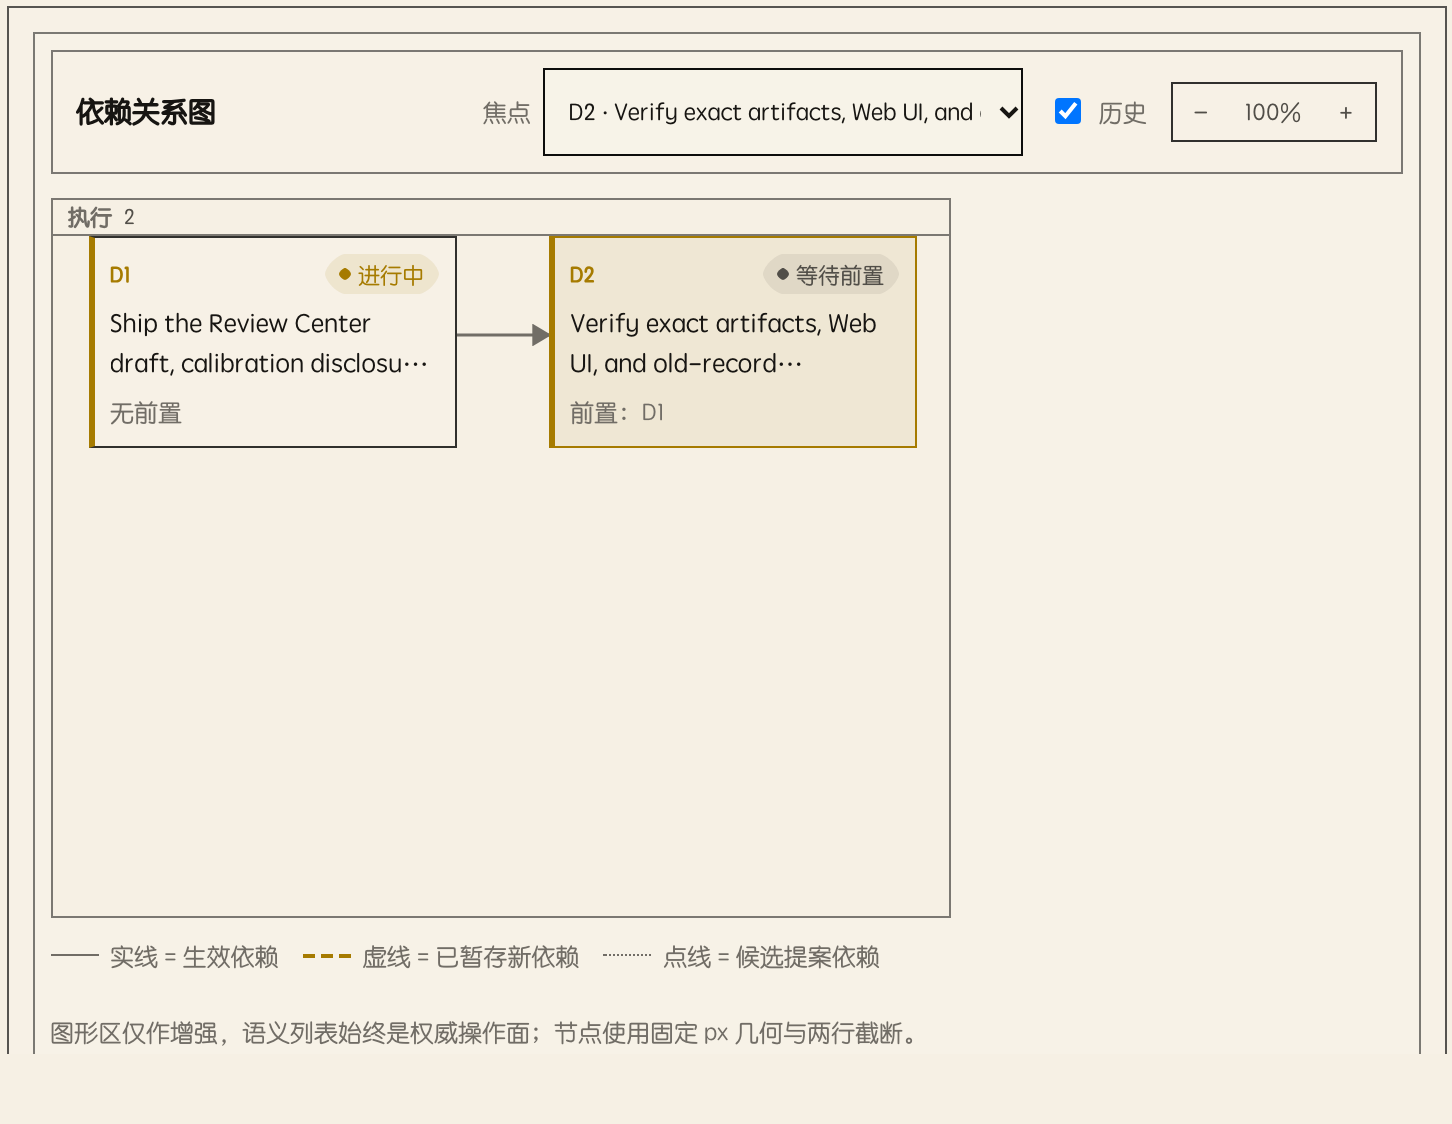
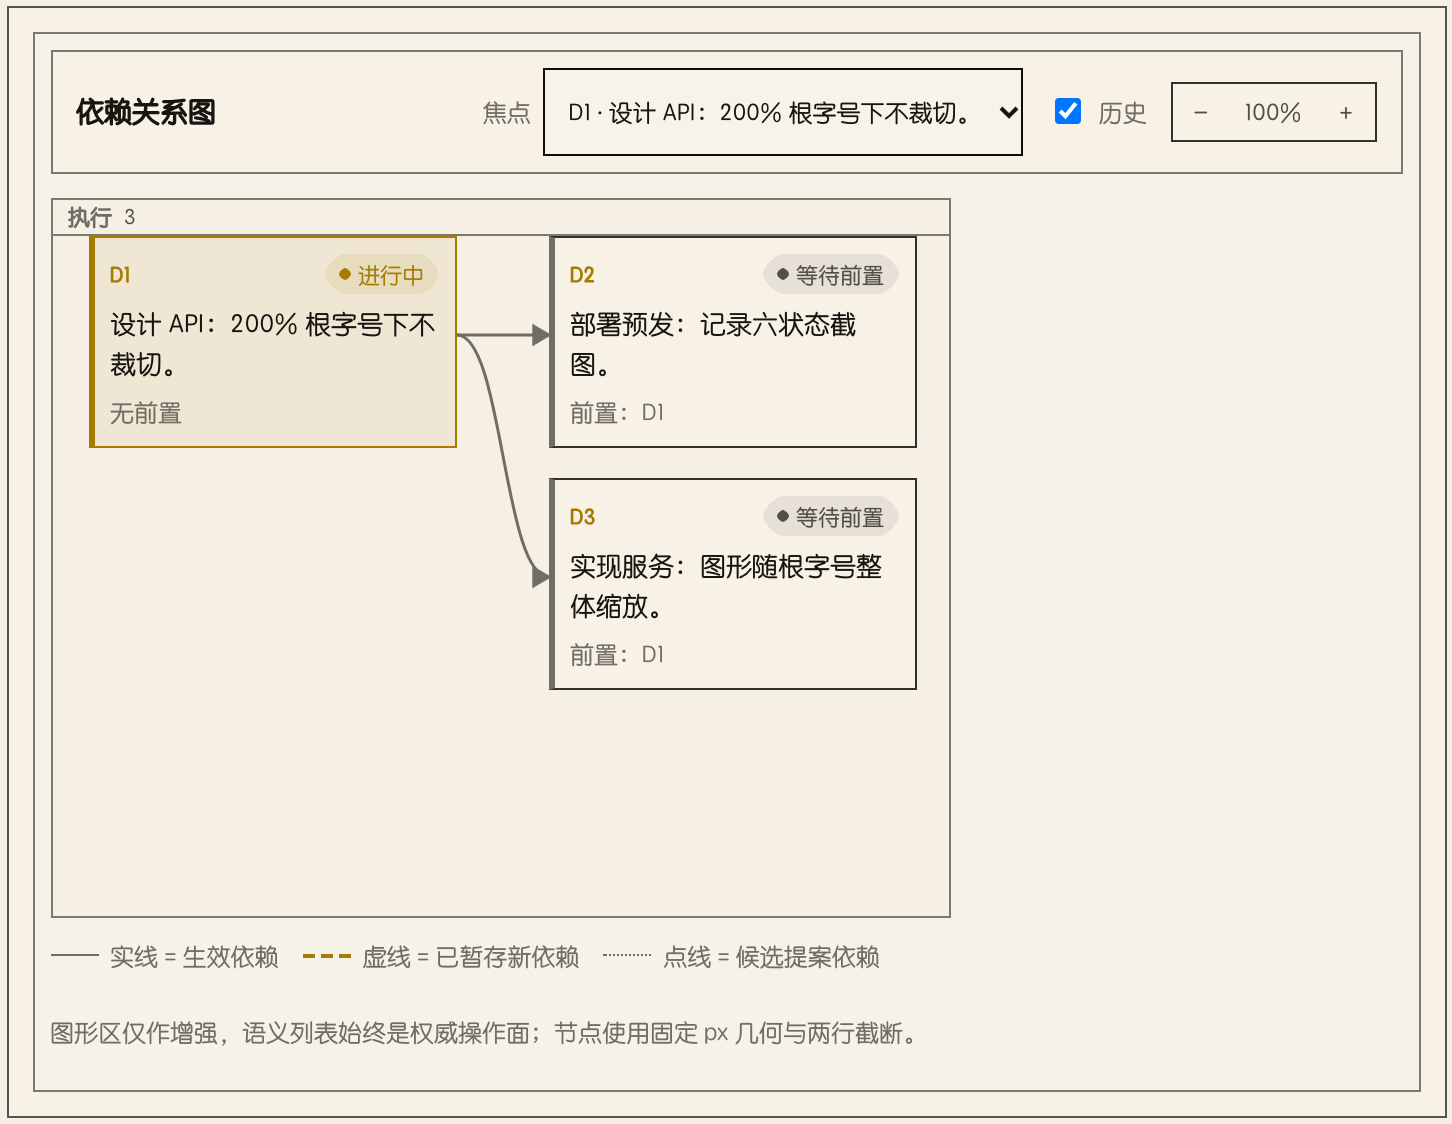
docs(assets): localize Chinese screenshots to the 0.3.3 demo contract
Rebuild the Chinese README Pane/graph views from the three Chinese deliverables used by the 0.3.3 demo session, keep the English views English, crop only the right-hand Pane, and follow the system light theme. Refresh the README wording and verification evidence.

diff --git a/docs/verification.md b/docs/verification.md
@@ -357,6 +357,6 @@ rm -rf .tmp
 
 - Source gates: `npm run check` = 45 files / 530 tests PASS; token coverage PASS over 13 declared DSH versions; `verify:ui-metrics --gate=final` PASS.
 - Implemented: opt-in calibration config/consent gate, Host `ctx.llm` one-shot strict JSON call, semantic aggregation/readable rewrite validation, `c-*` candidate refs with `mergedFrom`, trusted Host-only evidence excerpts, additive `applyBootstrap.calibrationRunId`, two new Remote methods and basic review UI (calibrate, uncertainty/merge/split badges, original excerpt, use-original, consent disclosure, objective warning, diagnostics usage).
-- README/README.zh are concise current-build documents; 0.3.4 Pane screenshots crop the right-hand `.charter-root` at a 1440x1000 Web-profile viewport and the dependency graph crops the graph element at a taller viewport; both follow the system light theme and were produced from the installed candidate; `package:smoke` now asserts localized `locale/en.json`/`locale/zh.json` metadata and that the description names the package version. Web Plugin Manager rendered the localized title/description and version note in both languages.
[1 lines of base64/hex data omitted]
+- README/README.zh are concise current-build documents; 0.3.4 Pane screenshots crop the right-hand `.charter-root` at a 1440x1000 Web-profile viewport and the dependency graph crops the graph element at a taller viewport; both follow the system light theme and use README-language-matching UI and contract text (Chinese reuses the three Chinese deliverables from the `0.3.3` demo session because that live session cannot be opened concurrently from the Web profile); `package:smoke` now asserts localized `locale/en.json`/`locale/zh.json` metadata and that the description names the package version. Web Plugin Manager rendered the localized title/description and version note in both languages.
[1 lines of base64/hex data omitted]
 - Not yet complete: A/B protocol-1/2, real-model/manual calibration acceptance, full L4 UI/AT evidence, complete failure/capability matrix and 0.4.0 capabilities. Calibration remains disabled by default.

diff --git a/docs/verification.zh.md b/docs/verification.zh.md
@@ -307,6 +307,6 @@ rm -rf .tmp
 
 - 源码门禁：`npm run check` = 45 文件 / 530 测试 PASS；13 个声明 DSH 版本 token 覆盖 PASS；`verify:ui-metrics --gate=final` PASS。
 - 已实现：opt-in 校准配置/consent 门禁、Host `ctx.llm` 单轮严格 JSON 调用、语义聚合/可读改写校验、`c-*` 候选与 `mergedFrom`、Host-only evidence excerpt、`applyBootstrap.calibrationRunId`、两个新 Remote 方法及基础审阅 UI（校准、uncertain/merge/split、原文、用原文、consent 披露、objective 提醒、诊断 usage）。
-- README/README.zh 已精简并更新为当前构建：0.3.4 Pane 截图在 1440×1000 Web profile 视口下裁剪右侧 `.charter-root`，依赖图裁剪图元素并使用更高视口；均跟随系统浅色主题，来自已安装候选；`package:smoke` 现在校验本地化 `locale/en.json`/`locale/zh.json` metadata 且 description 包含包版本。Web Plugin Manager 在中英文下均渲染了本地化标题/描述和版本说明。
[1 lines of base64/hex data omitted]
+- README/README.zh 已精简并更新为当前构建：0.3.4 Pane 截图在 1440×1000 Web profile 视口下裁剪右侧 `.charter-root`，依赖图裁剪图元素并使用更高视口；均跟随系统浅色主题；UI 与契约文本同 README 语言一致（中文复用 `0.3.3` 演示会话的三条中文交付物，因为该 live 会话不能同时从 Web profile 打开）；`package:smoke` 现在校验本地化 `locale/en.json`/`locale/zh.json` metadata 且 description 包含包版本。Web Plugin Manager 在中英文下均渲染了本地化标题/描述和版本说明。
[1 lines of base64/hex data omitted]
 - 尚未完成：A/B 协议 1/2、真实模型人工校准验收、完整 L4 UI/AT 证据、完整失败/capability 矩阵与 0.4.0 能力。校准默认关闭。

diff --git a/README.md b/README.md
@@ -16,7 +16,7 @@ English | [中文](README.zh.md)
 
 ![Dependency graph](docs/assets/charter-graph-0.3.4.png)
 
-The Pane keeps the workspace, Review Center, and Diagnostics in one document column. Screenshots crop to the right-hand Pane, use synthetic demo data, and follow the current system theme.
+The Pane keeps the workspace, Review Center, and Diagnostics in one document column. Screenshots crop to the right-hand Pane, follow the current system theme, and use synthetic demo data whose UI and contract text match the README language; the Chinese images reuse the three Chinese deliverables from the `0.3.3` demo session.
 
 ## Status
 

diff --git a/README.zh.md b/README.zh.md
@@ -16,7 +16,7 @@
 
 ![依赖关系图](docs/assets/charter-graph-0.3.4.zh.png)
 
-Pane 把工作区、审阅中心和诊断放在同一文档列中。截图只裁剪右侧 Pane，使用合成演示数据，并跟随当前系统主题。
+Pane 把工作区、审阅中心和诊断放在同一文档列中。截图只裁剪右侧 Pane、跟随当前系统主题，并使用与 README 语言一致的合成演示数据；中文图复用 `0.3.3` 演示会话的三条中文交付物。
 
 ## 状态
 
